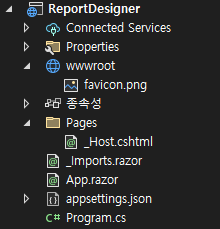
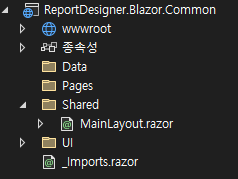
GITBOOK-70: change request with no subject merged in GitBook

diff --git a/blazor/web-report-desinger/3.-ui.md b/blazor/web-report-desinger/3.-ui.md
@@ -1,0 +1,69 @@
+# 3. UI 컴포넌트 설치
+
+Blazor 를 시작하면서 제일 처음 만나는 문제는 컨트롤이 없고 설명이 없다는 점 입니다.&#x20;
+
+물론 웹으로 프로그래밍을 처음 시작했다면, 체감을 잘 못하실 수도 있습니다.&#x20;
+
+.NET 의 경우 기본적인 UI 컨트롤이 훌륭해서, 특별히 커스텀 컨트롤을 사용하지 않더라도 어느정도 퀄리티 있는 디자인을 뽑아 낼수 있기 때문입니다.&#x20;
+
+
+
+그러나 Blazor는 그런 기본제공되는 컨트롤이 없습니다. 그래서 검증된다른 Third Party 컨트롤을 사용하는게 정신건강상 좋습니다. &#x20;
+
+다양한 무료 컴포넌트 들이 있지만, 회사에서 제약있는무료는 제외하면 몇개 안되는데 그중 radzen 컴포넌트를 사용하겠습니다.&#x20;
+
+{% embed url="https://blazor.radzen.com/" %}
+
+이 컴포넌트의 가장 큰 장점은 샘플과, 코드를 같이 제공해서 이해하기가 쉽다는 점 입니다. \
+(물론 속성 및 사용법에 대한 자세한 설명은 특별히 없습니다.)
+
+
+
+공용 라이브러리 프로젝트에서 Nuget을 통해서 설치를 하시면 됩니다. (메인 프로젝트에는 추가X)
+
+<figure><img src="../../.gitbook/assets/image.png" alt=""><figcaption></figcaption></figure>
+
+설치방법에 대한 페이지가 따로 있습니다.&#x20;
+
+{% embed url="https://blazor.radzen.com/get-started" %}
+
+* 2번항목 Import the namespace 는 양쪽 프로젝트에 전부 추가하셔야 합니다.
+* 나머지 항목은 전부 메인 프로젝트에 추가 하면 됩니다.&#x20;
+
+### 시스템이 흘러가는 순서는 다음과 같습니다.&#x20;
+
+1. 서버 실행됨
+2. 메인 프로젝트의 Program.cs
+3. App.razor (여기서 MainLayout을 기본 페이지로 사용 중, MainLayout 은 공용라이브러리에 있음)
+
+```cshtml
+<Router AppAssembly="@typeof(App).Assembly" AdditionalAssemblies=@LoadedAssemblies>
+    <Found Context="routeData">
+        <RouteView RouteData="@routeData" DefaultLayout="@typeof(MainLayout)" />
+        <FocusOnNavigate RouteData="@routeData" Selector="h1" />
+    </Found>
+</Router>
+```
+
+4. 공용라이브러리 프로젝트 MainLayout 내용이 메인페이지로 출력
+
+
+
+그러므로 특별히 수정하지 않는 이상 메인페이지는 라이브러리 프로젝트의 MainLayout 를 사용합니다.&#x20;
+
+그 안에 각종 레이아웃이 붙게 되는 구조로 작업합니다.&#x20;
+
+
+
+결과적으로 보면 기존에 구성했던 라이브러리 프로젝트에서 나머지가 전부 필요 없어지게 됩니다.
+
+<div align="center" data-full-width="false">
+
+<figure><img src="../../.gitbook/assets/라이브러리 프로젝트 기본" alt=""><figcaption><p>기존</p></figcaption></figure>
+
+ 
+
+<figure><img src="../../.gitbook/assets/image (18).png" alt=""><figcaption><p>변경</p></figcaption></figure>
+
+</div>
+

diff --git a/blazor/web-report-desinger/2..md b/blazor/web-report-desinger/2..md
@@ -1,30 +1,15 @@
 # 2. 레이아웃 구성
 
+### 기본구성은 다음과 같이 설정합니다.
+
 * 메인 페이지
-* 탑바 페이지
-* 양측사이드 페이지
-
-를 기본구성으로 합니다.&#x20;
-
-
-
-상단의 경우 기본적인 편집 기능(잘라내기, 붙여넣기, 삭제, 되돌리기, 확대 축소 등)
-
-좌측의 경우 컨트롤 선택기능
-
-우측의 경우 컨트롤의 속성기능
-
-을 담당합니다.&#x20;
+* 헤더 컨트롤 (기본적인 편집기능 - 잘라내기, 붙여넣기, 삭제, 확대 축소)
+* 좌측 컨트롤 (컨트롤 선택기능)
+* 우측 컨트롤 (컨트롤 속성기능 및 유틸성 패널)
 
 
 
-리포트를 만들면 컨텐츠 밴드가 무조건 생성된다.&#x20;
-
-그 밴드를 기준으로 모든 밴드가 생성된다.&#x20;
-
-
-
-
+#### 상세 옵션
 
 좌측 컨트롤
 
@@ -52,6 +37,10 @@
 
 
 
+
+
+
+
 밴드구성
 
 | 밴드종류  | 설명         | 반복호출 |
@@ -72,3 +61,8 @@
 
 다음리포트 연결
 
+
+
+리포트를 만들면 컨텐츠 밴드가 무조건 생성된다.&#x20;
+
+그 밴드를 기준으로 모든 밴드가 생성된다.&#x20;

diff --git a/SUMMARY.md b/SUMMARY.md
@@ -28,6 +28,7 @@
 * [Web Report Desinger](blazor/web-report-desinger/README.md)
   * [1. 기본 프로젝트 구성](blazor/web-report-desinger/1..md)
   * [2. 레이아웃 구성](blazor/web-report-desinger/2..md)
+  * [3. UI 컴포넌트 설치](blazor/web-report-desinger/3.-ui.md)
 
 ## Unity
 
@@ -50,6 +51,5 @@
 * [Server-Side](etc/server-side/README.md)
   * [자체 서명 인증서 만들기](etc/server-side/undefined.md)
   * [Custom Uri Scheme](etc/server-side/custom-uri-scheme.md)
-  * [Page](etc/server-side/page.md)
 * [DB](etc/db/README.md)
   * [Postgres 기타.](etc/db/postgres-..md)

diff --git a/etc/monitoring/loki-tempo-uid.md b/etc/monitoring/loki-tempo-uid.md
@@ -35,7 +35,7 @@ var traceid = Span.current().getSpanContext().getTraceId();
 
 4. 로키로 넘어온 데이터를 키:값 형태로 패턴화 합니다.&#x20;
 
-<figure><img src="../../.gitbook/assets/image (1) (1).png" alt=""><figcaption><p>패턴화 예제</p></figcaption></figure>
+<figure><img src="../../.gitbook/assets/image (1) (1) (1).png" alt=""><figcaption><p>패턴화 예제</p></figcaption></figure>
 
 5. 그라파나 로키 데이터 소스에서 해당 패턴화된 데이터를 Derived fields로 설정합니다.
 

diff --git a/etc/monitoring/2.-.net/README.md b/etc/monitoring/2.-.net/README.md
@@ -22,7 +22,7 @@ OpenTelemetry.Instrumentation.AspNetCore 1.0.0-rc9.14
 OpenTelemetry.Exporter.Console 1.4.0
 ```
 
-<figure><img src="../../../.gitbook/assets/image (1) (1) (1).png" alt=""><figcaption></figcaption></figure>
+<figure><img src="../../../.gitbook/assets/image (1) (1) (1) (1).png" alt=""><figcaption></figcaption></figure>
 
 program.cs 에 다음 코드를 삽입합니다.
 

diff --git a/etc/server-side/undefined.md b/etc/server-side/undefined.md
@@ -245,7 +245,7 @@ certutil -f -p 암호 -importpfx server.pfx NoRoot
 certutil -addstore -f ROOT root_ca.crt
 ```
 
-<figure><img src="../../.gitbook/assets/image (1).png" alt=""><figcaption></figcaption></figure>
+<figure><img src="../../.gitbook/assets/image (1) (1).png" alt=""><figcaption></figcaption></figure>
 
 3. SSL 인증서와 웹서버 프로그램을 등록
 
